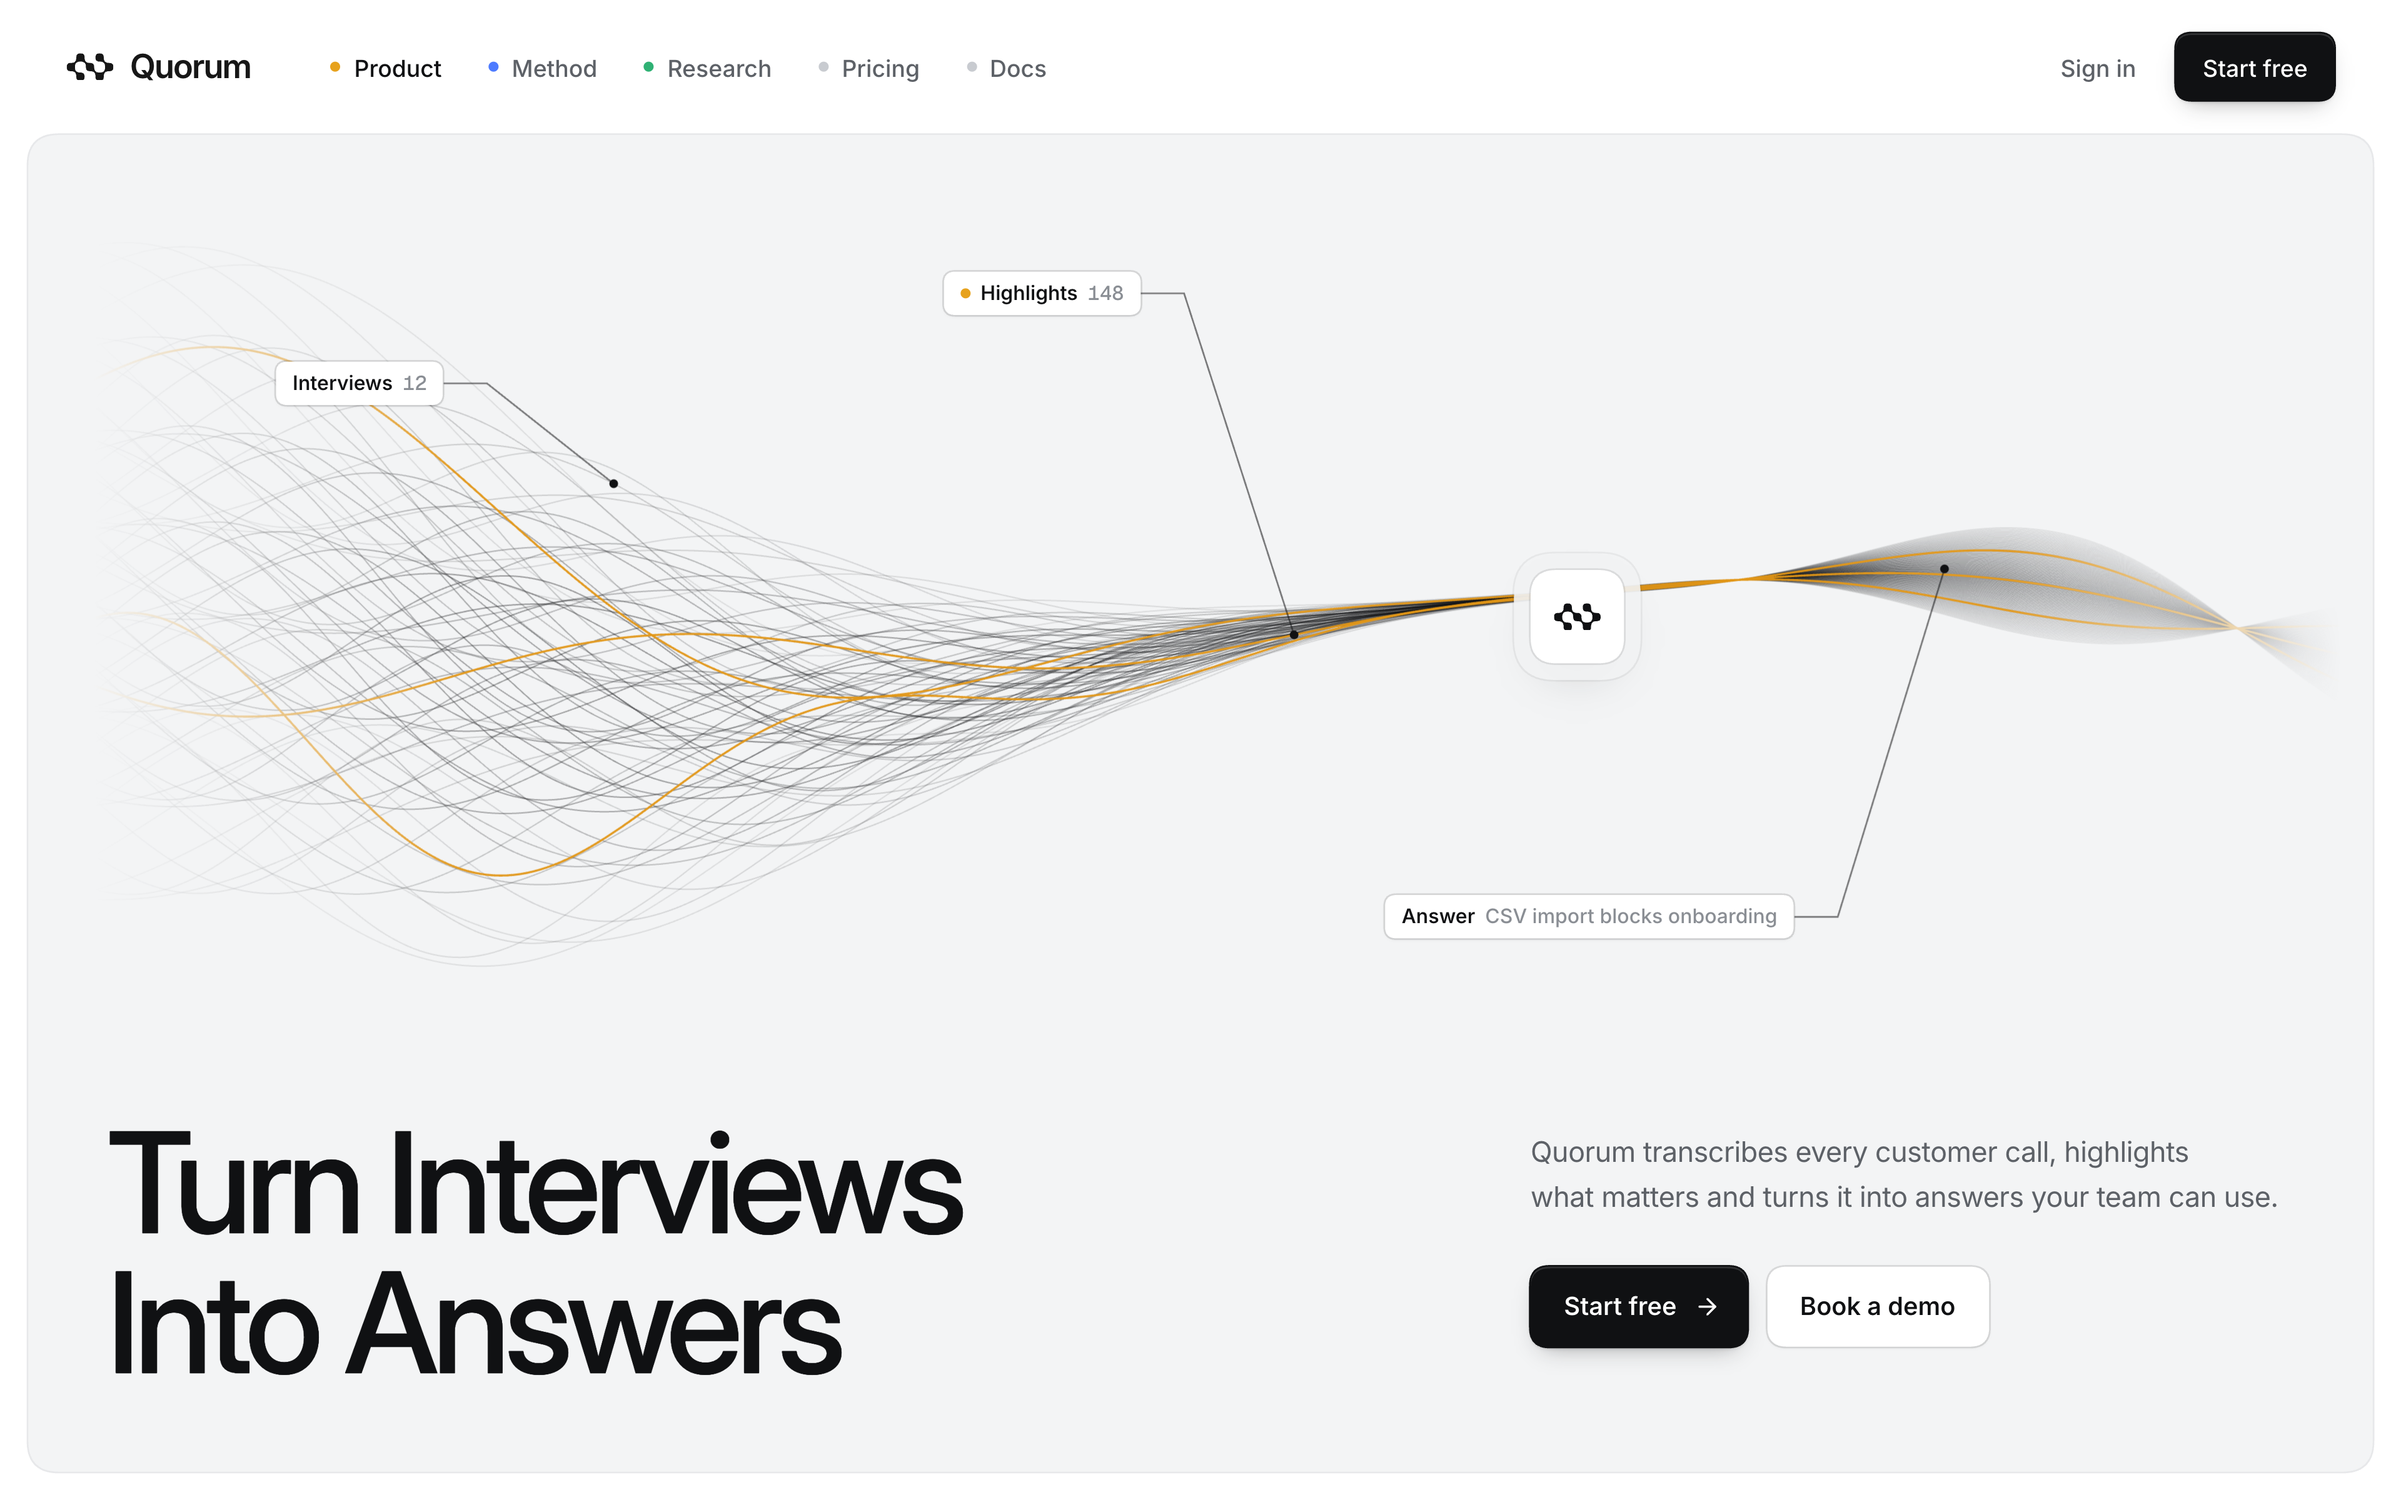
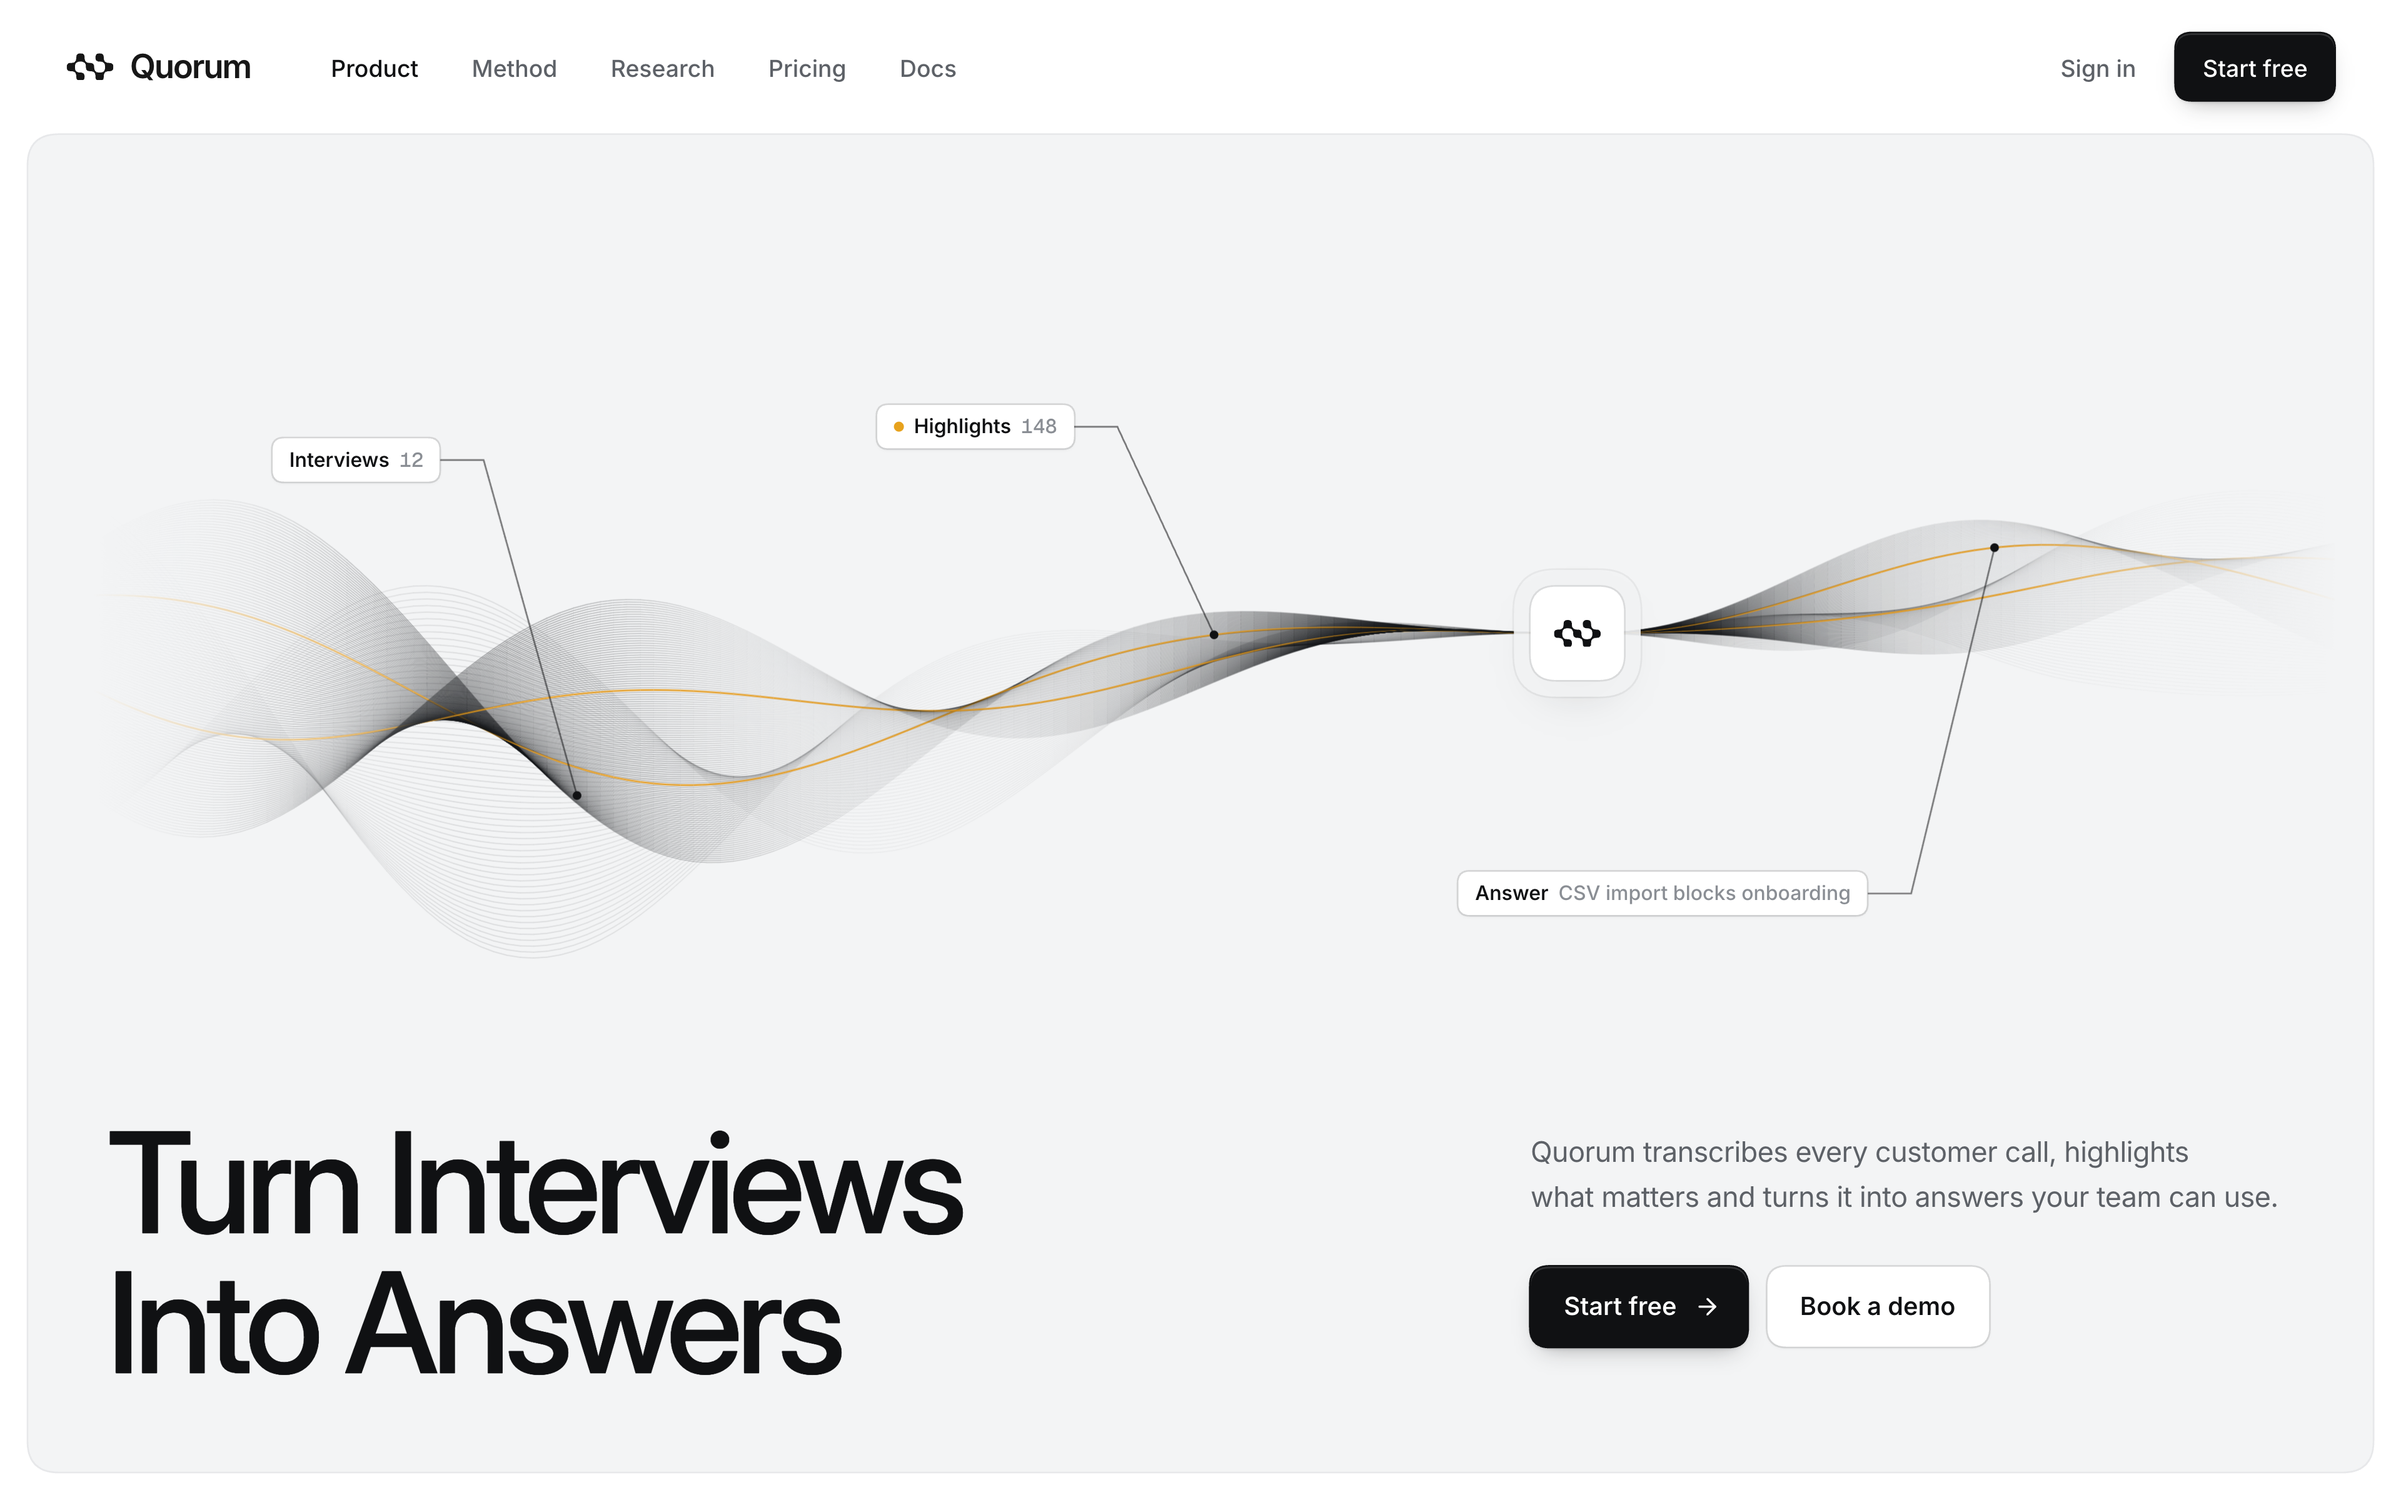
Quorum v4.1: ribbon rebuilt as one twisted shaded sheet with an echo layer; nav dots removed; founder rule on coherent line art

diff --git a/work/quorum/app/src/Ribbon.tsx b/work/quorum/app/src/Ribbon.tsx
@@ -5,21 +5,20 @@
 import { useEffect, useRef } from 'react'
 
 export const W = 1408, H = 560
-export const NODE = { x: 930, y: 290 }
-const N = 72, HOT = new Set([14, 35, 55])
+export const NODE = { x: 930, y: 300 }
+const N = 120, HOT = new Set([38, 81])
 const sm = (a: number, b: number, x: number) => { const t = Math.min(1, Math.max(0, (x - a) / (b - a))); return t * t * (3 - 2 * t) }
 
-/** y of strand i at x, time t (also used to anchor the label leaders) */
-export function strandY(i: number, x: number, t: number) {
-  const s = (i / (N - 1)) - 0.5
-  const L = 1 - sm(60, NODE.x, x)
-  const R = sm(NODE.x, W - 40, x)
-  const shared = Math.sin(x * 0.0062 - t * 0.35) * 54 * (0.35 + 0.65 * L) + Math.sin(x * 0.0021 + 1.2) * 40 * L
-  const own = Math.sin(x * (0.009 + (i % 7) * 0.0009) + i * 0.47 + t * 0.6) * 70 * Math.pow(L, 1.1)
-  const spread = s * 300 * Math.pow(L, 1.35) + s * (4 + 92 * R) * Math.cos(x * 0.0105 - t * 0.4 - 0.9)
-  const tail = Math.sin(x * 0.006 - t * 0.3) * 46 * R
-  return NODE.y + shared * (1 - R) + own + spread + tail
+/* one twisted sheet of hairlines: centre curve + width envelope + twist; s in [-.5,.5] picks the strand */
+const centre = (x: number, t: number) => NODE.y + 64 * Math.sin(x * 0.0042 + 0.5 - t * 0.12) * (1 - Math.exp(-Math.pow((x - NODE.x) / 260, 2)))
+const width = (x: number) => x < NODE.x ? 210 * Math.pow(1 - sm(120, NODE.x - 20, x), 0.85) : 112 * sm(NODE.x + 10, NODE.x + 300, x)
+const twist = (x: number, t: number) => (x < NODE.x ? x * 0.0105 : x * 0.0075 + 2.4) - t * 0.22
+export function strandY(i: number, x: number, t: number, echo = 0) {
+  const s = i / (N - 1) - 0.5
+  const tw = twist(x, t) + s * 0.55 + echo * 1.3
+  return centre(x, t) + echo * 34 * (width(x) / 210) + s * width(x) * (1 + echo * 0.15) * Math.cos(tw)
 }
+const shade = (i: number, x: number, t: number) => { const s = i / (N - 1) - 0.5; return Math.pow(0.5 + 0.5 * Math.sin(twist(x, t) + s * 0.55), 1.6) }
 
 export default function Ribbon({ at = 0.4, labels }: { at?: number; labels: { i: number; x: number; lx: number; ly: number }[] }) {
   const ref = useRef<HTMLCanvasElement>(null)
@@ -34,19 +33,20 @@ export default function Ribbon({ at = 0.4, labels }: { at?: number; labels: { i:
       const s = (now - t0) / 1000, t = still ? 2 : s
       const k = still ? 1 : Math.min(1, Math.max(0, (s - at) / 2.0)), reveal = 40 + (1 - Math.pow(1 - k, 3)) * (W + 40)
       g.clearRect(0, 0, W, H)
-      for (let pass = 0; pass < 2; pass++) {
-        for (let i = 0; i < N; i++) {
-          const hot = HOT.has(i)
-          if ((pass === 1) !== hot) continue
-          const sp = Math.abs(i / (N - 1) - 0.5) * 2
-          g.beginPath()
-          for (let x = 40; x <= Math.min(reveal, W - 20); x += 4) {
-            const y = strandY(i, x, t)
-            x === 40 ? g.moveTo(x, y) : g.lineTo(x, y)
+      const end = Math.min(reveal, W - 20)
+      // faint echo sheet behind, then the main sheet; each strand drawn in short runs so its alpha follows the twist (3D shading)
+      for (const echo of [1, 0]) {
+        for (let i = 0; i < N; i += echo ? 2 : 1) {
+          const hot = !echo && HOT.has(i)
+          let px = 40, py = strandY(i, 40, t, echo)
+          for (let x = 48; x <= end; x += 8) {
+            const y = strandY(i, x, t, echo)
+            const a = hot ? 0.85 : (echo ? 0.04 + 0.08 * shade(i, x, t) : 0.06 + 0.36 * shade(i, x, t))
+            g.beginPath(); g.moveTo(px, py); g.lineTo(x, y)
+            g.lineWidth = hot ? 1.1 : 0.6
+            g.strokeStyle = hot ? `rgba(226, 150, 22, ${a})` : `rgba(18, 20, 23, ${a})`
+            g.stroke(); px = x; py = y
           }
-          g.lineWidth = hot ? 1.25 : 0.75
-          g.strokeStyle = hot ? 'rgba(226, 150, 22, 0.95)' : `rgba(16, 17, 19, ${0.1 + 0.32 * (1 - sp)})`
-          g.stroke()
         }
       }
       g.save(); g.globalCompositeOperation = 'destination-out'

diff --git a/work/quorum/app/src/HeroV4.tsx b/work/quorum/app/src/HeroV4.tsx
@@ -14,9 +14,9 @@ const T = { nav: 0.1, panel: 0.15, ribbon: 0.35, node: 1.0, h1: 0.45, sub: 0.8, 
 const INK = '#101113', SUB = '#5d6167'
 const PANEL = { x: 16, y: 80, w: 1408, h: 804 }
 const LABELS = [
-  { i: 9, x: 352, lx: 250, ly: 150, side: 'r', text: <>Interviews <b className="font-mono font-[500] text-[#8a8e94]">12</b></> },
-  { i: 35, x: 760, lx: 668, ly: 96, side: 'r', text: <><span className="size-1.5 rounded-full" style={{ background: TAG.import.dot }} />Highlights <b className="font-mono font-[500] text-[#8a8e94]">148</b></> },
-  { i: 40, x: 1150, lx: 1060, ly: 470, side: 'r', text: <>Answer <b className="font-[500] text-[#8a8e94]">CSV import blocks onboarding</b></> },
+  { i: 12, x: 330, lx: 248, ly: 196, side: 'r', text: <>Interviews <b className="font-mono font-[500] text-[#8a8e94]">12</b></> },
+  { i: 38, x: 712, lx: 628, ly: 176, side: 'r', text: <><span className="size-1.5 rounded-full" style={{ background: TAG.import.dot }} />Highlights <b className="font-mono font-[500] text-[#8a8e94]">148</b></> },
+  { i: 81, x: 1180, lx: 1104, ly: 456, side: 'r', text: <>Answer <b className="font-[500] text-[#8a8e94]">CSV import blocks onboarding</b></> },
 ]
 
 const Up = ({ at, y = 16, className = '', children }: { at: number; y?: number; className?: string; children: ReactNode }) => (
@@ -29,13 +29,13 @@ const Wd = ({ i, children }: { i: number; children: ReactNode }) => (
 )
 
 function Nav() {
-  const links: [string, string][] = [['Product', TAG.import.dot], ['Method', TAG.pricing.dot], ['Research', TAG.delight.dot], ['Pricing', '#c8cbd0'], ['Docs', '#c8cbd0']]
+  const links = ['Product', 'Method', 'Research', 'Pricing', 'Docs']
   return (
     <header className="absolute inset-x-[40px] top-0 z-30 flex h-[80px] items-center">
       <Up at={T.nav} y={-8}><a href="#" aria-label="Quorum home" className="flex h-10 items-center"><QuorumLogo /></a></Up>
       <Up at={T.nav + 0.05} y={-8} className="ml-12">
-        <nav aria-label="Main"><ul className="flex items-center gap-7 text-[14px] font-[500]">
-          {links.map(([l, c], i) => <li key={l}><a href="#" className={`group flex h-10 items-center gap-2 transition-colors duration-200 ${i === 0 ? 'text-[#101113]' : 'text-[#5d6167] hover:text-[#101113]'}`}><span className="size-[6px] rounded-full transition-transform duration-200 group-hover:scale-125" style={{ background: c }} />{l}</a></li>)}
+        <nav aria-label="Main"><ul className="flex items-center gap-8 text-[14px] font-[500]">
+          {links.map((l, i) => <li key={l}><a href="#" className={`flex h-10 items-center transition-colors duration-200 ${i === 0 ? 'text-[#101113]' : 'text-[#5d6167] hover:text-[#101113]'}`}>{l}</a></li>)}
         </ul></nav>
       </Up>
       <Up at={T.nav + 0.1} y={-8} className="ml-auto flex items-center gap-6 text-[14px] font-[500]">

diff --git a/knowledge/founder/founder-taste.md b/knowledge/founder/founder-taste.md
@@ -256,12 +256,15 @@ Every rule here is a direct founder verdict on real output. It outranks books, w
 - **RULE** [founder] For a fictional brand's logo, take an abstract mark from Pinterest and trace it (skill `logo-from-image`, `tools/trace_logo.mjs`) instead of drawing one; the founder swaps it if he dislikes it. Not Logoipsum.
   **Why** Founder: "find an abstract logo from pinterest as image and convert it to svg and use as logo... instead of creating yourself", then "nouuu not logoipsum but take from pinterest"; on the pick: "nice logo pick".
   **Applies to** fictional/demo brands. **Check** `work/<name>/brand/ref/SOURCE.txt` exists and the trace sheet matches at 16px. **Source** founder, Quorum, 2026-10-15
-- **RULE** [founder] A hero's signature visual is product UI on an art surface, not loose stickers. Build one crisp, straight product window (a real control such as a waveform scrubber with tagged ranges and a playhead, real content, a side list) sitting on a fine art panel: an engraving or etching shader in one ink, light and fine (stroke period about 3px, ink about 70% alpha, never op-art black). Add at most one floating element, and it says what the product is doing right now (a status bar). Never use tilted sheets, scattered timestamp chips or chunky halftone colour blocks. Ideas that carry meaning in small places are welcome (nav dots in the product's tag colours were "kinda cool").
+- **RULE** [founder] A hero's signature visual is product UI on an art surface, not loose stickers. Build one crisp, straight product window (a real control such as a waveform scrubber with tagged ranges and a playhead, real content, a side list) sitting on a fine art panel: an engraving or etching shader in one ink, light and fine (stroke period about 3px, ink about 70% alpha, never op-art black). Add at most one floating element, and it says what the product is doing right now (a status bar). Never use tilted sheets, scattered timestamp chips or chunky halftone colour blocks. (Nav dots in tag colours were "kinda cool" once, then rejected in v4: "no dots nearby the nav bar".)
   **Why** Founder on Quorum v2 (halftone waveform with big tag-colour blocks, a tilted sheet, an insight card and three flag chips): "not bad for trying actually, but it ain't professional enough, especially the visual or the little three cards... the top nav bar with circles kinda cool... the visual needs improving".
   **Applies to** split and product-proof heroes. **Check** one product window plus at most one floater; no rotated UI; the art panel has no saturated colour blocks; side-by-side with `knowledge/benchmarks/x-refs/aakib-1-v.jpg` and `split-heroes/lightfield-1440.png`. **Source** founder, Quorum v2, 2026-10-15
 - **RULE** [founder] When the founder says "clean, modern, simple, Marcel/Basit style", strip the hero to Marcel Kargul's Altrina grammar. Use a white page with one inset light panel (#f3f4f5, r20, 16px from the edges) and one fine-line art piece across its top: hairline strands that tell the product's story, with at most one accent colour and two or three small label chips on elbow leaders. Set the headline bottom-left at regular weight (Inter display 500, 84px, -0.045em), and put the subtitle and two square-ish buttons (r12, 48px; flat ink with a 1px top light, and white with a hairline ring) bottom-right on the art's focal axis. Do not add product windows, textures, grain, tilted cards or chips around the copy.
   **Why** Founder on Quorum v3 (an engraved landscape behind an interview window): "I don't like it, I said do completely different stuff bro... clean modern simple, marcel, basit style more".
   **Applies to** heroes where the founder asks for clean or simple. **Check** at most three things in the panel (art, headline, CTA block); one accent; side-by-side with `knowledge/benchmarks/kargul-deep/gallery/altrina-01.jpg`. **Source** founder, Quorum v3, 2026-10-15
+- **RULE** [founder] Line art must read as one coherent object. Use a ribbon of parallel hairlines (one centre curve, a width envelope, a twist) with 3D shading (strand alpha follows sin(twist), about 0.06-0.42), plus a fainter echo sheet behind. Never a tangle of independent random-phase strands; that reads as a scribble. Keep nav links plain: no coloured dots beside them.
+  **Why** Founder on Quorum v4 (a ribbon of 72 random-phase strands, a nav with tag-colour dots): "cool idea... ass visual and execution... no dots nearby the nav bar".
+  **Applies to** generative line art and nav links. **Check** strands never cross outside the twist points; one silhouette is readable at thumbnail size; nav links have no decorative markers. **Source** founder, Quorum v4, 2026-10-15
 ## 5. Exceptions & judgement calls
 
 - The split layout (copy left, visual right) was rejected by Larpo when the right side was a decorative dashboard. With a real product world on the right (the payout globe) the founder accepted it.
